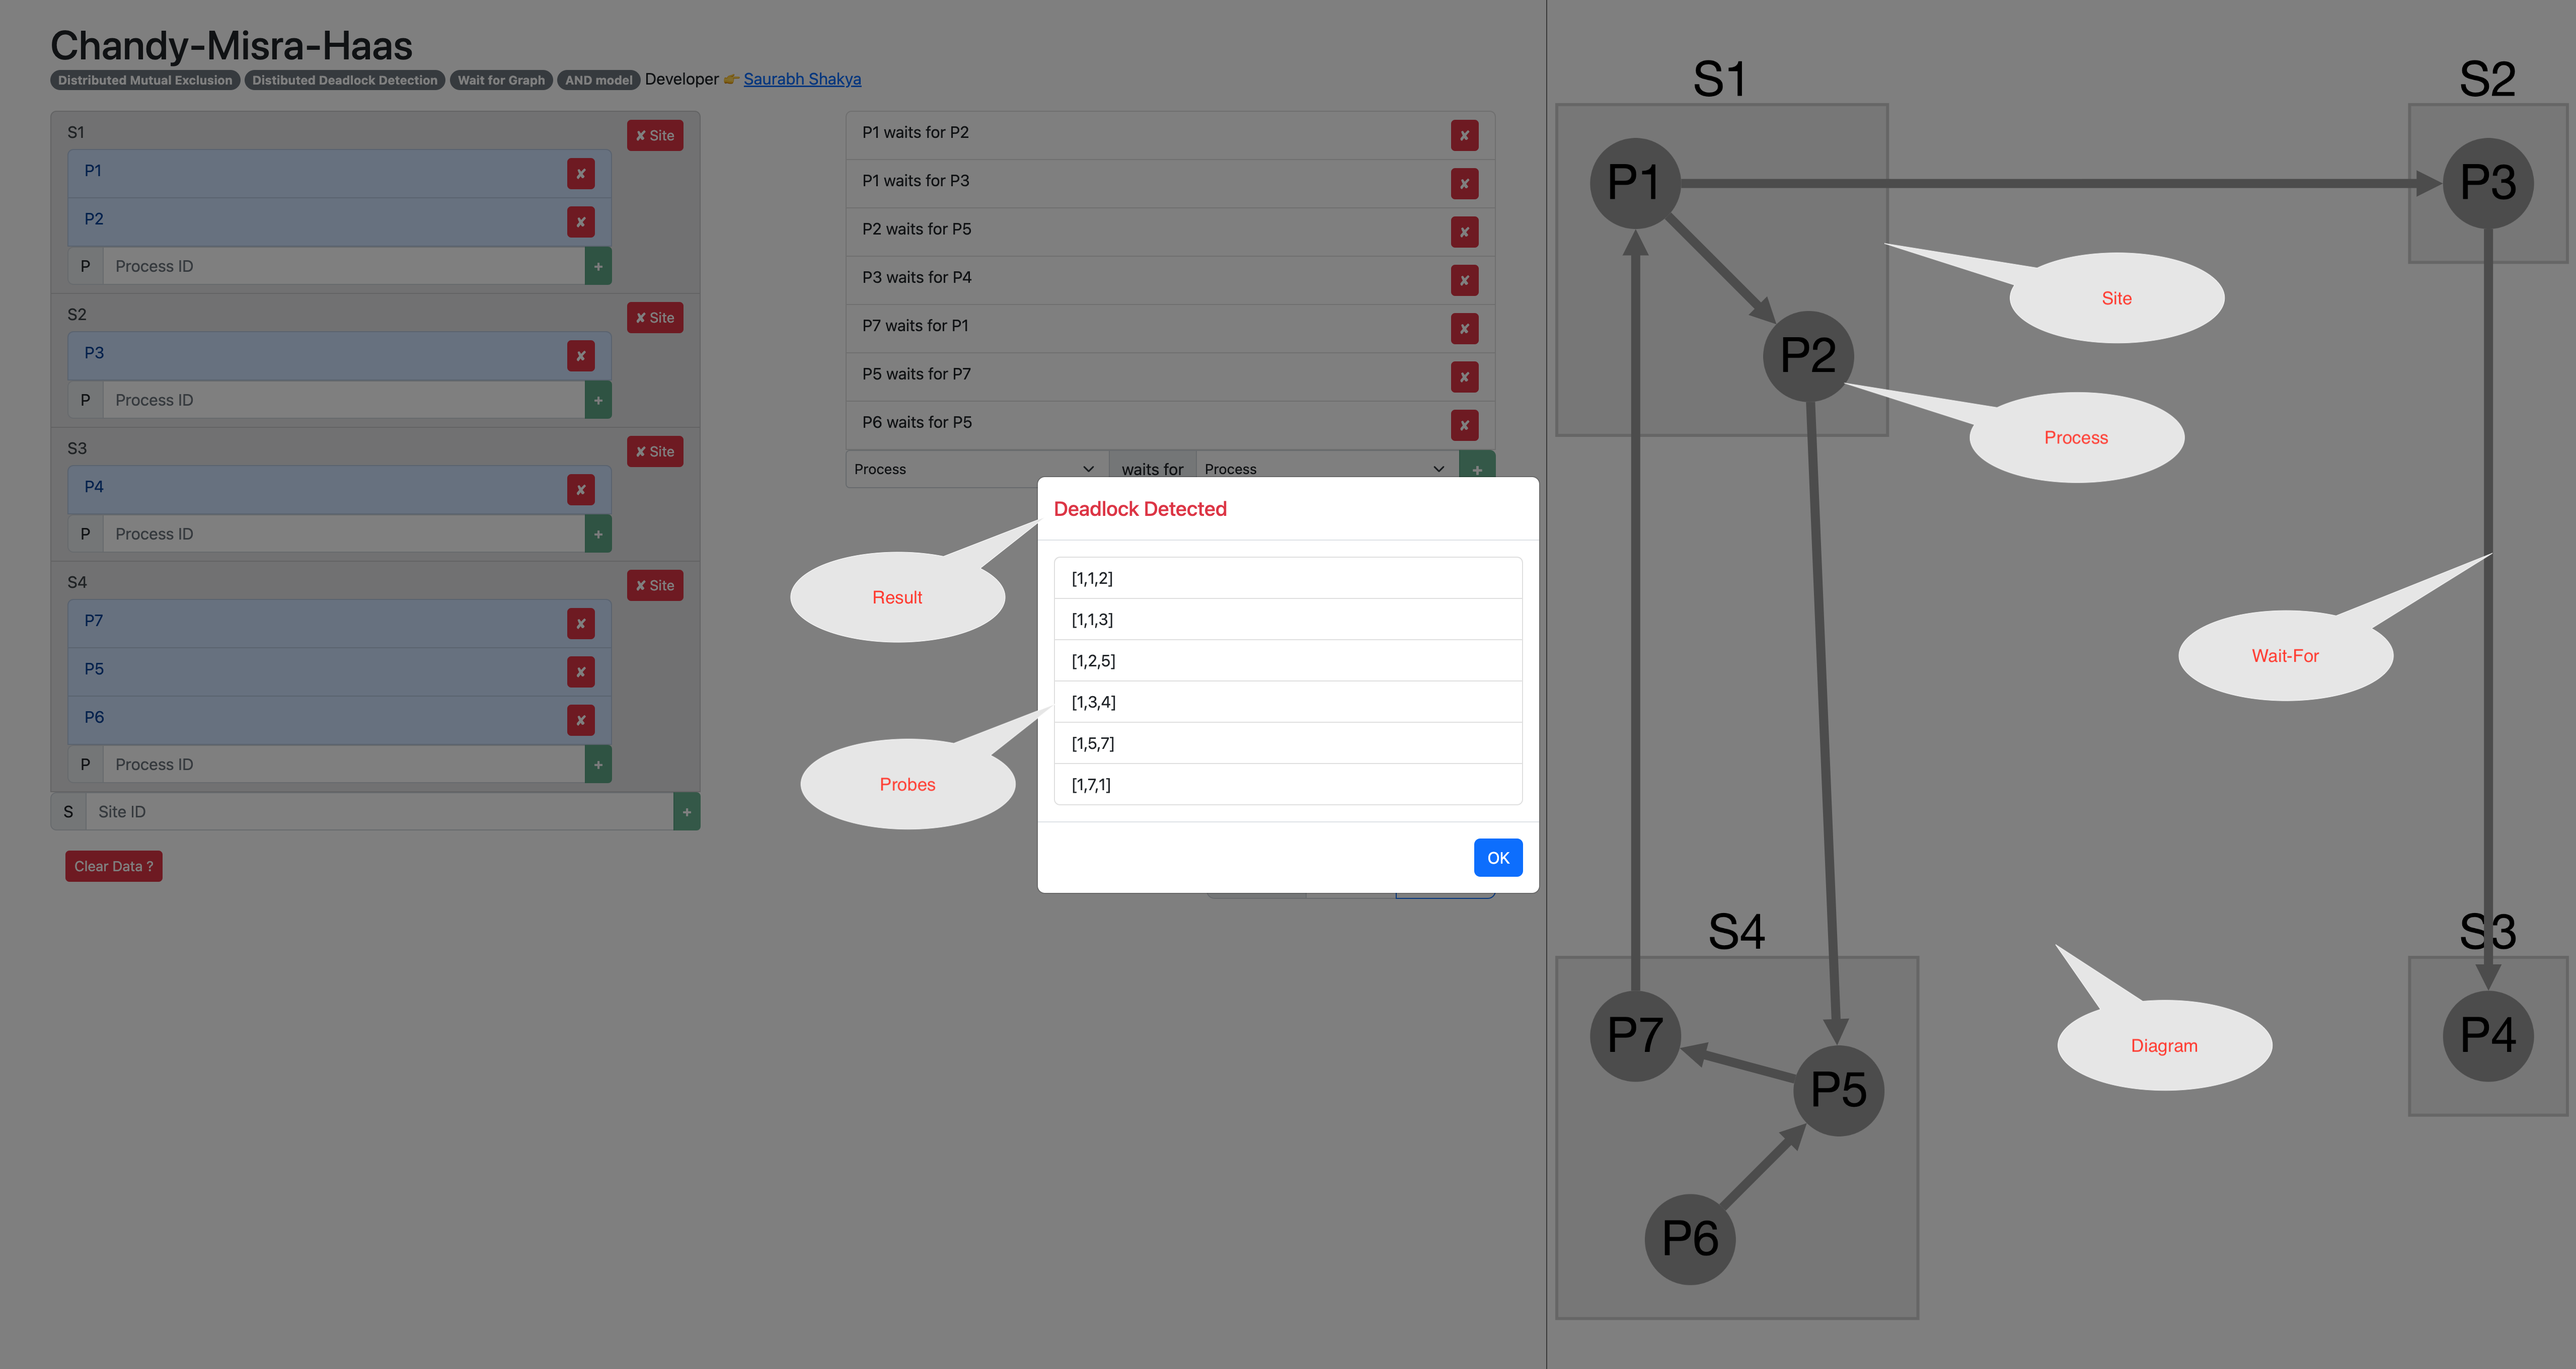
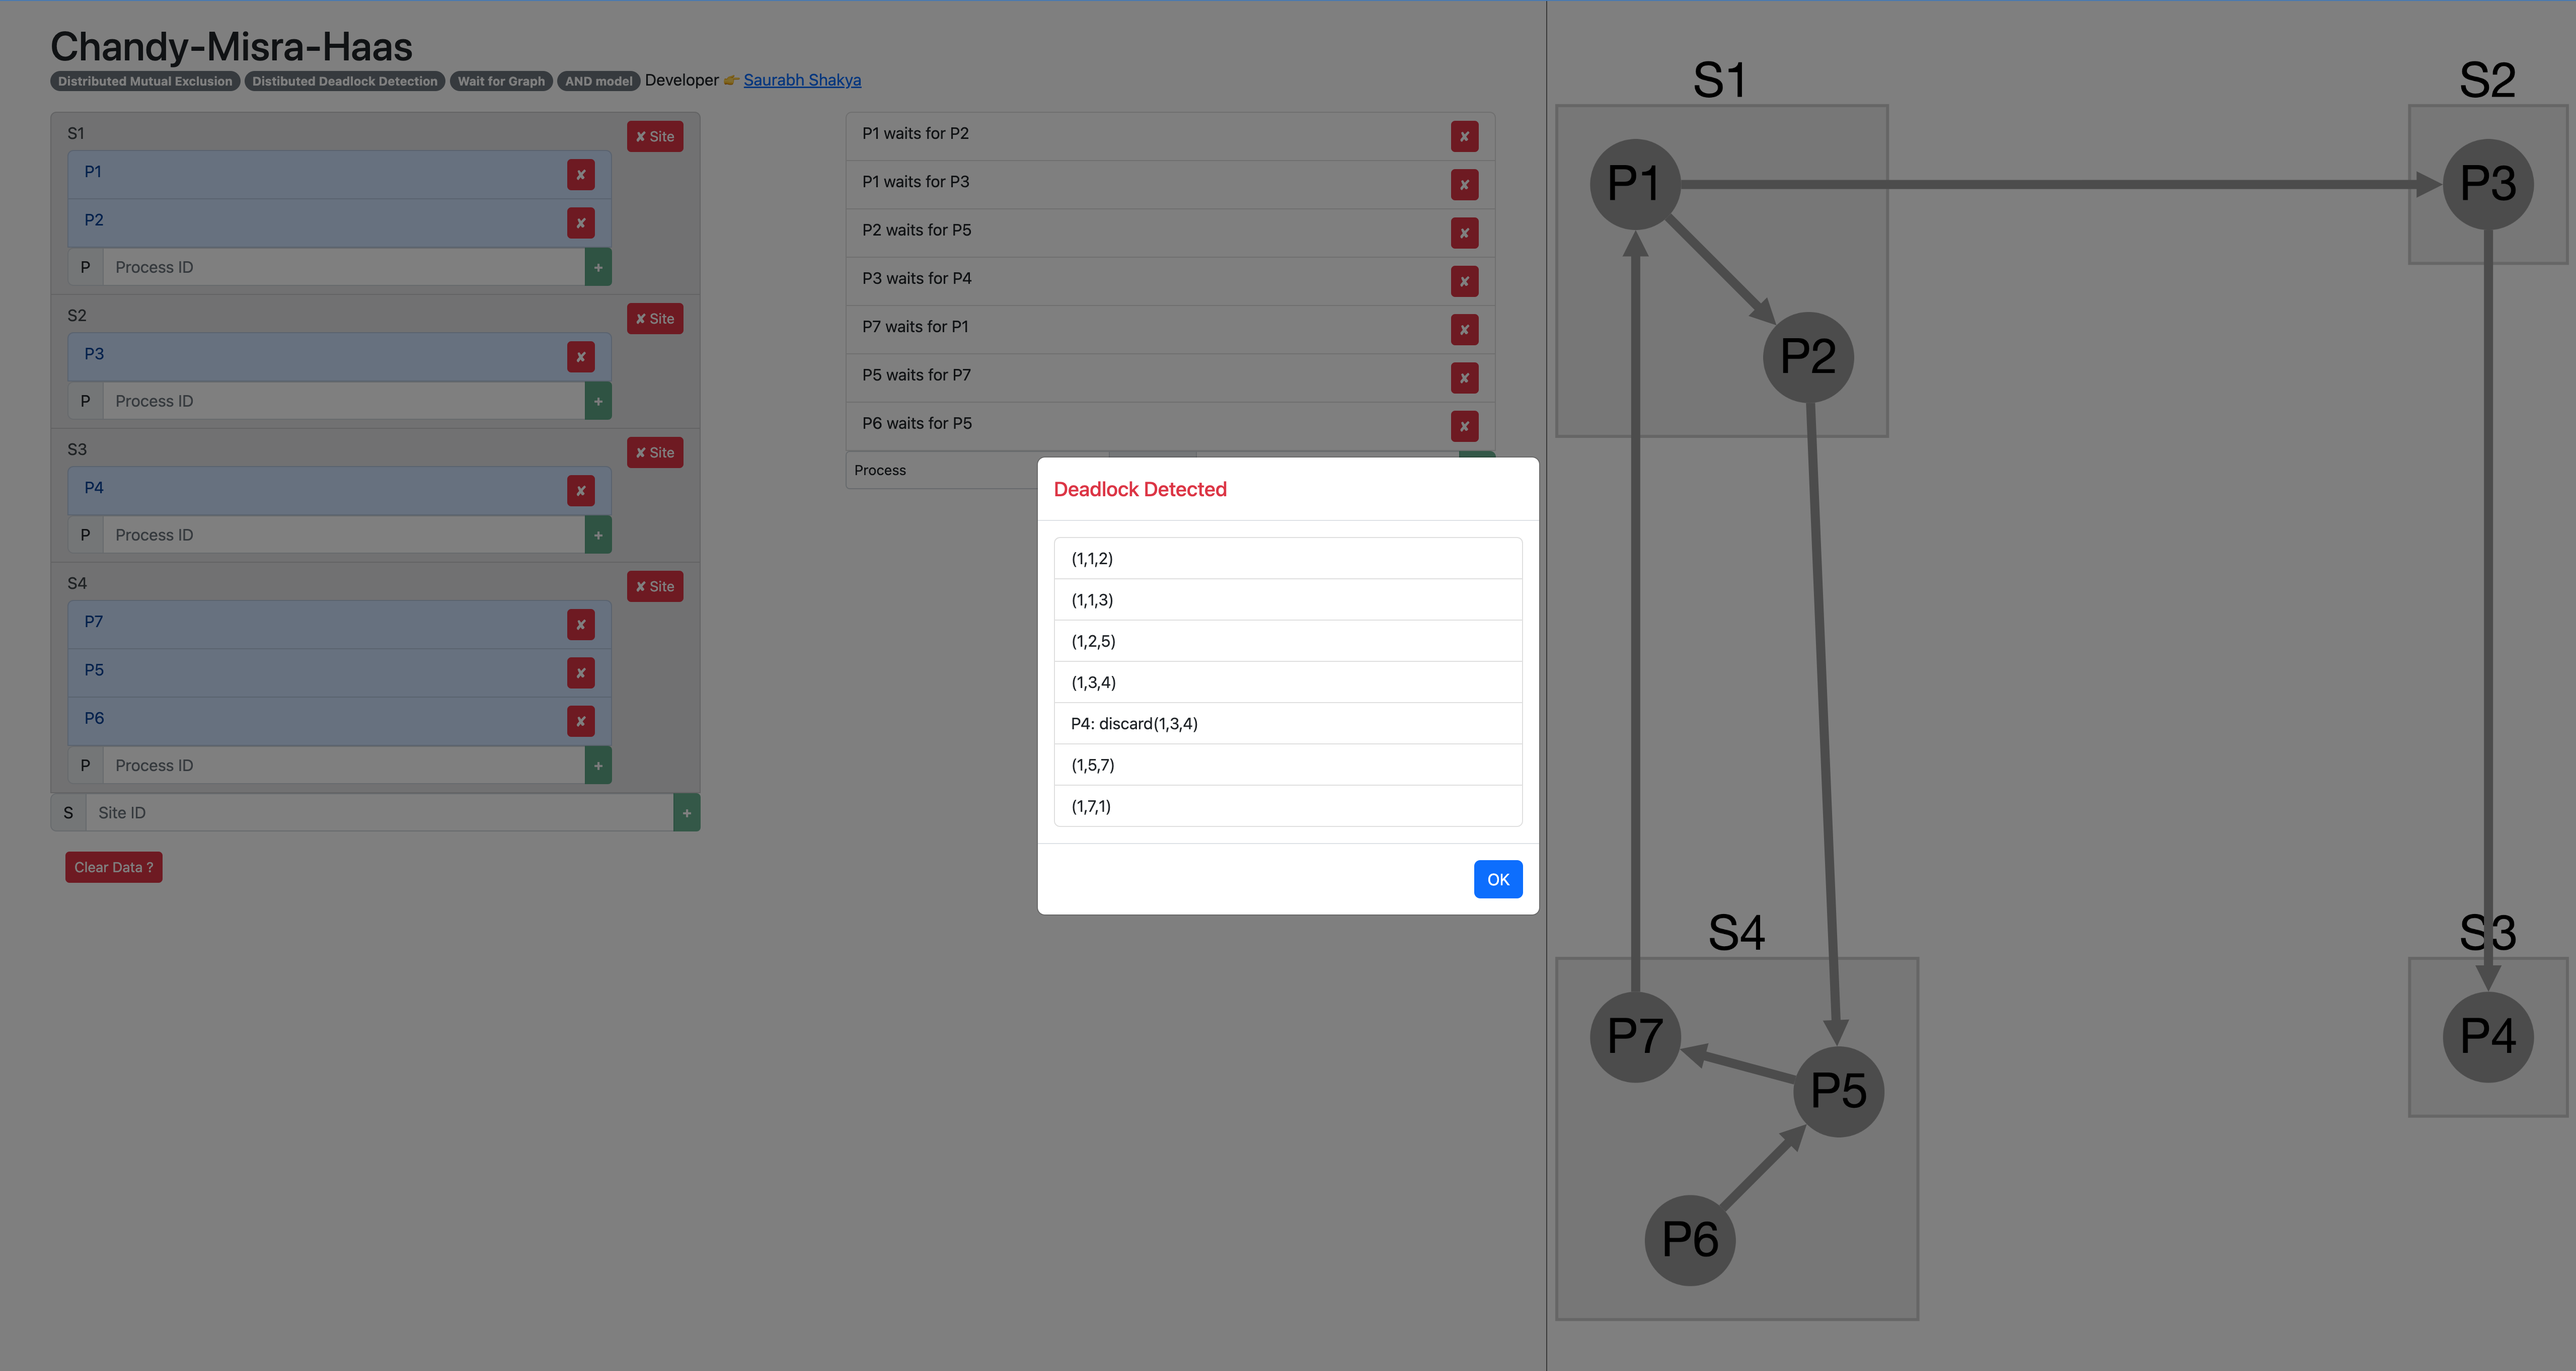
update: result with discarded probes

diff --git a/cmh.js b/cmh.js
@@ -3,13 +3,13 @@ class CMH {
     // graph: Map<Process, Set<Process>>, initiator: Process
     detectDeadLockAND = (graph, initiator) => {
         let probes = [];
-        let deadlock = false;
+        let deadlock = undefined;
         if(initiator)
             deadlock = this.#detectCycle(initiator, graph, probes);
         else for(const procEntry of graph.entries()) {
             if(procEntry[1].length !== 0) {
                 probes.push('');
-                deadlock = deadlock || this.#detectCycle(procEntry[0], graph, probes);
+                deadlock = this.#detectCycle(procEntry[0], graph, probes);
                 if(deadlock)
                     break;
             }
@@ -26,9 +26,7 @@ class CMH {
         while(q.length !== 0) {
             const proc = q.shift();
             const procs = graph.get(proc);
-            if(procs.length === 0)
-                probes.push('P'+proc + ': discard');
-            else for(const p of procs) {
+            for(const p of procs) {
                 q.push(p);
                 const probe = [initiator, proc, p];
                 const probeString = '('+probe.toString()+')';
@@ -37,9 +35,13 @@ class CMH {
                 if(!visited) {
                     sent.set(probeString, null);
                     probes.push(probeString);
+                    if(graph.get(p).length === 0)
+                        probes.push('P'+p+': discard' + probeString);
                 }
-                if(initiator === p || visited) 
+                if(initiator === p) 
                     return true;
+                if(visited)
+                    return undefined;
             }
         }
         return false;

diff --git a/index.html b/index.html
@@ -117,8 +117,9 @@
                 <div class="modal-dialog modal-dialog-centered modal-dialog-scrollable">
                     <div class="modal-content">
                         <div class="modal-header">
-                            <h1 class="modal-title fs-5" ng-class="data.result.deadlock ? 'text-danger' : 'text-success'">
-                                {{data.result.deadlock ? 'Deadlock Detected' : 'No Deadlock'}}
+                            <h1 class="modal-title fs-5" ng-class="data.result.deadlock === undefined ? 'text-secondary' : (data.result.deadlock ? 'text-danger' : 'text-success')">
+                                {{ data.result.deadlock === undefined ? 'Unknown' :
+                                    (data.result.deadlock ? 'Deadlock Detected' : 'No Deadlock')}}
                             </h1>
                         </div>
                         <div class="modal-body">

diff --git a/readme.md b/readme.md
@@ -31,11 +31,13 @@
 ```
 Assumptions:
 - All the process will have unique ID (positive number) accross all sites
-- Sites will have unique ID (positive number). Sites used as input for visualization. It has no impact on the deadlock detection algorithm.
-- The input to the CMH algorithm is graph of process represented by adjacency list (Map<Number,List<Number>>).
+- Sites will have unique ID (positive number). Sites used as input for visualization. 
+  It is not used in deadlock detection algorithm.
+- The input to the CMH algorithm is graph of process represented by adjacency list 
+  (Map<Number,List<Number>>).
 ```
 
-- Open [index.html](./index.html) in your favourite browser. ([ref](./demo/1.png))
+- Open [index.html](./index.html) in your favourite browser.
 - Load sample data or create your own.
   - Load sample data can be done by clicking button `Sample Data ?` ([ref](./demo/1.png))
   - Clear all data using button `Clear Data?` (if required). ([ref](./demo/2.png))
